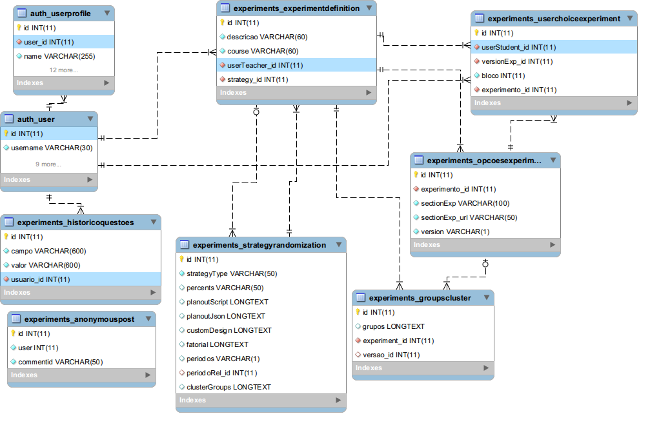
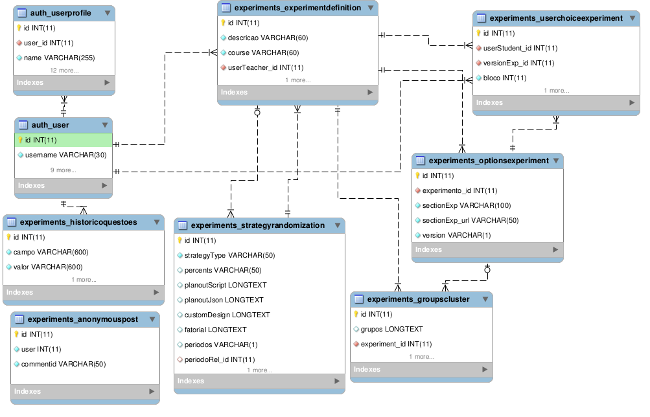
Changes required

Changed region(s): [[0.0, 0.0, 0.8923, 0.9976], [0.3077, 0.0, 0.9846, 0.3429]]

diff --git a/planout_edx.md b/planout_edx.md
@@ -29,7 +29,7 @@ Despite Sherlock Holmes' widely known advice that theorizing before having data 
 
 Regarding efficacy evaluation in relation to educational interventions, randomized trials are perceived as one of the best ways to establish causal relationships between interventions and educational outcomes (Baron, 2004, Jadad and Enkins, 2007, Friedman et al., 2010). While observational studies and case reports based on personal experience can bring additional insights, they are frequently positioned at a lower level in relation to the strength of evidence since their results are frequently biased (Sackett et al, 2010). Specifically regarding online experiments, open source frameworks that allow for the design of complex experiments are now available, including Facebook's recently released Planout <!-- ref -->. And yet, despite its availability, most learning management systems have not been integrated with randomization systems. This lack of adequate tools for conducting experiments in education aids in explaining why a relatively small number of well designed RCTs have been conducted (Wong et al., 2010; Triola et al., 2012) and, while it is true that RCTs are slowly becoming more common in the educational field (Slavin, 2002), experiments are still largely divorced from daily educational practice (Wong et al, 2010; Triola et al, 2012).
 
-An essential part of trial design is a proper randomization. Despite being relatively simple, randomization principles are often misunderstood by researchers (Jadad and Enkin, 2007; Friedman et al., 2010). Frequently, strategies that are not truly random are used to allocate educational subjects, including assignment by date of birth, using unique identifier numbers, or by alternating allocation depending on order of arrival (Jadad and Enkin, 2007). Through the use of computer-based randomization algorithms, reliable sequences can be generated that, although not completely random, are sufficient to establish efficacy measures and reduce bias from known and unknown factors (Jadad and Enkin, 2007; Friedman,2010). The first framework allowing for randomization within Open edX was recently released <!-- jacinto include link -->. Despite this addition representing an important progress toward facilitating educational experiments, it only allows for parallel trials with an equal proportion of participants in each arm (Jadad and Enkins, 2007). Although useful, this type of design only represents a small fraction of what might be desirable for educational trials (Jadad and Enkins, 2007). More complex designs such as cluster, factorial and cross-over  might bring experimental refinement to educational trials with advantages such as the increase of statistical power and avoiding intervention contamination (Jadad and Enkins, 2007). 
+An essential part of trial design is a proper randomization. Despite being relatively simple, randomization principles are often misunderstood by researchers (Jadad and Enkin, 2007; Friedman et al., 2010). Frequently, strategies that are not truly random are used to allocate educational subjects, including assignment by date of birth, using unique identifier numbers, or by alternating allocation depending on order of arrival (Jadad and Enkin, 2007). Through the use of computer-based randomization algorithms, reliable sequences can be generated that, although not completely random, are sufficient to establish efficacy measures and reduce bias from known and unknown factors (Jadad and Enkin, 2007; Friedman,2010). The first framework allowing for randomization within Open edX was recently released <!-- jacinto include link. Ricardo http://edx.readthedocs.org/projects/edx-partner-course-staff/en/latest/content_experiments/index.html -->. Despite this addition representing an important progress toward facilitating educational experiments, it only allows for parallel trials with an equal proportion of participants in each arm (Jadad and Enkins, 2007). Although useful, this type of design only represents a small fraction of what might be desirable for educational trials (Jadad and Enkins, 2007). More complex designs such as cluster, factorial and cross-over  might bring experimental refinement to educational trials with advantages such as the increase of statistical power and avoiding intervention contamination (Jadad and Enkins, 2007). 
 
 These more complex designs could include clustering participants when interventions might spread from one arm to another, combining interventions in factorial trials when combinations of interventions might be more efficacious than isolated ones, or even using cross-over trials in an attempt to increase statistical power for outcomes not related to knowledge acquisition.
 However, without a supporting technology these more sofisticated designs are either not used or, worse, wrongly implemented.
@@ -51,7 +51,7 @@ When organizing courses, instructors are presented with the edX Studio Content M
 ### Existing randomization within Open edX
 
 There have been previous attempts to develop a randomization component to Open edX <!-- https://github.com/edx/edx-platform/wiki/Split-Testing -->. More recently, the *split_test* component was released so that a course can be designed to contain one or more parallel trials. This randomization scheme allows for the following allocation schedules: (1) Dynamic, where groups are formed in following the order in which they view the content <!-- Jacinto, não entendi essa ultima explicação
-Ricardo - usuários são inseridos nos grupos na primeira visualização do conteúdo 
+Ricardo - usuários são inseridos nos grupos na primeira visualização do conteúdo (no LMS quando clicado em Courseware) 
    -->, (2) Random, where students are allocated at random to pre-established grupo, (3) Evenly distributed, where students are distributed in equal proportions among the existing groups and (4) Permanent, where students remain in the same group independent from the number of experiments in the group. <!-- ref  Ricardo http://edx-partner-course-staff.readthedocs.org/en/latest/content_experiments/content_experiments_configure.html-->
 
 Although this system is certainly an advance, it does not match the most commonly alternative trial designs in educational research, namely parallel with proportions other than 1:1, cross-over, cluster and factorial, as well as possible custom variations resulting from adaptations or combinations of each of these. Each of these designs is graphically summarized under Figure 1.
@@ -87,7 +87,7 @@ Figure XXX demonstrates the main elements in this architecture, containing the C
 
 
 
-The LMS contains a number of methods that allows for learners to enroll in courses, interact with content made available through the CMS. LMS also allows course staff to extract learner data from each course. 
+The LMS contains a number of methods that allows for learners to enroll in courses, interact with content made available through the CMS. LMS also allows course staff to extract learner data from each course.
 
 The majority of  components in the Open edX platform are based on the Django framework, and the content is rendered using the Mako library, allowing for better flexibility and performance. Beyond Python, the server also uses languages such as [Java](), [Ruby](), [Ruby on Rails](), and [NodeJs](). On the client side the content is rendered using a combination of [HTML](), [JavaScript](), [CSS]() and [SASS]().
 
@@ -113,14 +113,14 @@ Figure X displays and a partial Entity Relationship Diagram for our software. Th
 
 ![edX Architecture](./img/modeloer.png "Partial Entity Relationship Diagram" )
 
-In order to create the integration between Open edX and PlanOut, and make possible to load designs created by third-party software. We have added the following entities: <!-- modifiquei aqui adicionei load designs -->
+In order to create the integration between Open edX and PlanOut, and make possible to load designs created by third-party software. We have added the following entities: 
 
 
 <!-- might transform below into a table -->
 
 * ExperimentDefinition: the primary entity, where an experiment is identified in Open edX. For each time period in a course, the instructor can create an entry in this table. 
-* OpcoesExperiment: <!-- Jacinto, seria melhor chamar de options ao invés de experimento --> stores address which will be used to recover sections in the experiment. Each entry in this entity represent an experimental arm.
-* StrategyRandomization: this entity allows the instructor to define a design through a PlanOut script or use the operators during the randomization process. When creating a randomized experiment, the default is UniformChoice. In our current version, the instructor can only define a single experimental design for the entire course, this been made through an operator, script or design. <!-- Jacinto, o que é um operator? o que é um design? acho que essas coisas precisam ser definidas --> As a consequece, individual students will only be in a single arm across all experiments.
+* OptionsExperiment: stores address which will be used to recover sections in the experiment. Each entry in this entity represent an experimental arm.
+* StrategyRandomization: this entity allows the instructor to define a design through a PlanOut script or use the operators during the randomization process. When creating a randomized experiment, the default is UniformChoice. In our current version, the instructor can only define a single experimental design for the entire course, this been made through an operator, script or design. <!-- Jacinto, o que é um operator? o que é um design? acho que essas coisas precisam ser definidas  --> As a consequece, individual students will only be in a single arm across all experiments.
 * UserChoiceExperiment: this entity defines which arm was allocated during randomization, by inserting an entry that is defined under Design in StrategyRandomization. This entity ensures that, at a later moment, users might recover and use the content of the Arm where they have been allocated.
 * AnonyMousPost: this entity stores the unique identifier for the comment as well as the user, which allows for the identificatio of an anonymous post. This feature allows that, for example, group users only have access to posts made within their own group.
 * GroupsCluster -- cada registro desta entidade descreve um grupo criado para Cluster Trials. Um aluno pertencerá a um determinado grupo se preencher todos os requisitos definidos pelo professor. Cada grupo, pode usar até 5 critérios distintos, dos quais incluem: gender, age, level of education, country and city. Os critérios são armazenados no formato JSON, o que permite, de forma fácil, a recuperação do que foi definido para cada grupo. 
@@ -139,7 +139,7 @@ The code for the application can be found at [GitHub](https://github.com/geekaia
 
 Table X summarizes all available designs within the current version of our software:
 
-|       Design       | Custom Design with PlanOut Script | Custom design generated by third-party software or language | Just selecting among the options <!-- Jacinto, isso daqui quer dizer GUI -->|
+|       Design       | Custom Design with PlanOut Script | Custom design generated by third-party software or language | Just selecting among the options <!-- Jacinto, isso daqui quer dizer GUI - Ricardo, sim -->|
 |:------------------:|:---------------------------------:|:------------------------------------------------:|:--------------------------------:|
 | Parallel with equal proportions          |                 x                 |                         x                        |                 x                |
 | Proportional       |                 x                 |                         x                        |                 x                |
@@ -183,9 +183,11 @@ In our application, this design is selected using the *Uniform* choice (Figure 1
 
 It is possible to change the allocation proportion across arms selecting the *Proportion* parameter. For example, for a design with a 2:1 proportion we would allocate 0.66 and 0.33 through the graphical user interface (GUI). Alternatively, the following script could be used:
 
-<!-- jacinto, como 0.66 + 0.33 não é igual a 1, daria pra fazer algo como usar uma função que gerasse o valor numérico de 1/3 e 2/3? -->
+<!-- jacinto, como 0.66 + 0.33 não é igual a 1, daria pra fazer algo como usar uma função que gerasse o valor numérico de 1/3 e 2/3? 
+Ricardo, mudei de 0.6 será que seria melhor 0.667? Precisa?
+-->
 
-	URL = WeightedChoice(choices=CHOICES, weights=[0.66, 0.33], unit=userid)
+	URL = WeightedChoice(choices=CHOICES, weights=[0.67, 0.33], unit=userid)
 	
 
 #### Factorial design
@@ -201,13 +203,31 @@ In our current version, factorial designs are restricted to two factors and two 
 #### Cross-over design
 Para este design, em um primeiro momento os alunos são alocados randomicamente para um Arm, mas durante durante o curso é possível mudar de Arm. Para isto, o professor deve configurar o momento em que o aluno poderá mudar entre os Arms disponíveis. Desta forma, pode-se avaliar se há benefícios quando muda-se o conteúdo aplicado.
 
-<!-- Jacinto, beleza, mas como ele faria essa troca? você pode descrever passo a passo? -->
+<!-- Jacinto, beleza, mas como ele faria essa troca? você pode descrever passo a passo? 
+Ricardo,
+
+Steps: 
+Primeiro periodo
+	- O professor cria um experimento para uma semana
+	- Configura-se via GUI a opção crossover, configura o número de períodos 
+	- Salvar
+
+Segundo período 
+	- O professor cria outro experimento para outra semana 
+	- Via GUI muda para crossover.
+	- No último campo insere-se o ID do experimento do primeiro período 
+	- Salvar
+ Vou enviar um vídeo fazendo definindo experimentos cross-over e Cluster
+ -->
 
 
 #### Cluster design
 Neste este design, ao invés de randomizar entre os Arms disponíveis para alocar o estudante, a unidade a ser randomizada são os grupos definidos pelo professor. Os grupos podem ser criados com as informações do profile como Gender, Age, Escolaridade, Country e City. Caso um grupo já tenha sido randomizado, todos os estudantes que preenchem os requisitos do grupo serão alocados para o Arm do grupo.
 
-<!-- Jacinto, como ficaria o script pra isso? -->
+<!-- Jacinto, como ficaria o script pra isso? Isto não é implementado com Scripts, mas selecionando  
+Ricardo, com scripts não dá para fazer clusters. No máximo conseguimos fazer a estratificação.
+
+-->
 
 
 #### Customized design
@@ -226,7 +246,9 @@ Given the flexibility of the Planout language, it is possible to create a variet
 
 The script above can also be combined with a Bernoulli trial where a certain number of students 
 
-<!-- Jacinto, não entendi o que o script abaixo quer dizer -->
+<!-- Jacinto, não entendi o que o script abaixo quer dizer 
+Ricardo, aqui quer dizer que será extratificado 50% dos alunos do sexo masculino para o Arm A e 50% para o Arm B. Os demais irão para o Arm C. Acho que fica melhor do que usar o UniformChoice no último Arm.
+-->
 
 	p1 = BernoultiTrial(p=0.5, unit=userid);
 	p2 = BernoultiTrial(p=0.5, unit=userid);
@@ -237,7 +259,8 @@ The script above can also be combined with a Bernoulli trial where a certain num
 	{
 	  URL = choices[1]; 
 	} else {
-	  URL = uniformChoice(choices=choices, unit=userid);
+	  URL = choices[2];
+<!--URL = uniformChoice(choices=choices, unit=userid); -->
 	}
 
 ### Video library and documentation
